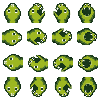
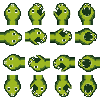
feat: body sprites added, they change with the direction correctly

diff --git a/js/snake.js b/js/snake.js
@@ -12,32 +12,32 @@ class Snake {
         this.body = [] // El cuerpo se gestiona como un array
         this.direction = "left" // Puede ser up, down, left o right, empieza siendo left
 
-        this.head = new Image()
-        this.head.src = "imgs/snake/head.png"
+        this.skin = new Image()
+        this.skin.src = "imgs/snake/head.png"
 
-        this.head.xFrames = 4
-        this.head.yFrames = 4
+        this.skin.columns = 4
+        this.skin.rows = 4
 
-        this.head.xFrameIndex = 0
-        this.head.yFrameIndex = 2
+        this.skin.columnIndex = 0
+        this.skin.rowIndex = 2
 
-        this.head.onload = () => {
-            this.head.isReady = true
+        this.skin.onload = () => {
+            this.skin.isReady = true
 
-            this.head.frameW = Math.floor(this.head.width / this.head.yFrames)
-            this.head.frameH = Math.floor(this.head.height / this.head.xFrames)
+            this.skin.frameW = Math.floor(this.skin.width / this.skin.rows)
+            this.skin.frameH = Math.floor(this.skin.height / this.skin.columns)
         }
 
     }
 
     draw () {
-        if (this.head.isReady) {
+        if (this.skin.isReady) {
             this.ctx.drawImage(
-                this.head,
-                this.head.frameW * this.head.xFrameIndex, 
-                this.head.frameH * this.head.yFrameIndex, 
-                this.head.frameW, 
-                this.head.frameH, 
+                this.skin,
+                this.skin.frameW * this.skin.columnIndex, 
+                this.skin.frameH * this.skin.rowIndex, 
+                this.skin.frameW, 
+                this.skin.frameH, 
                 this.x, 
                 this.y, 
                 this.w, 
@@ -86,8 +86,8 @@ class Snake {
                 this.vx = 0
                 this.vy = -CELL_SIZE
                 this.direction = "up"
-                this.head.xFrameIndex = 0
-                this.head.yFrameIndex = 0
+                this.skin.columnIndex = 0
+                this.skin.rowIndex = 0
             }
         })
 
@@ -96,8 +96,8 @@ class Snake {
                 this.vx = 0
                 this.vy = CELL_SIZE
                 this.direction = "down"
-                this.head.xFrameIndex = 0
-                this.head.yFrameIndex = 3
+                this.skin.columnIndex = 0
+                this.skin.rowIndex = 3
             }
         })
 
@@ -106,8 +106,8 @@ class Snake {
                 this.vx = -CELL_SIZE
                 this.vy = 0
                 this.direction = "left"
-                this.head.xFrameIndex = 0
-                this.head.yFrameIndex = 2
+                this.skin.columnIndex = 0
+                this.skin.rowIndex = 2
             }
         })
 
@@ -116,8 +116,8 @@ class Snake {
                 this.vx = CELL_SIZE
                 this.vy = 0
                 this.direction = "right"
-                this.head.xFrameIndex = 0
-                this.head.yFrameIndex = 1
+                this.skin.columnIndex = 0
+                this.skin.rowIndex = 1
             }
         })
         

diff --git a/js/game.js b/js/game.js
@@ -25,8 +25,8 @@ class Game {
         this.intervalId = setInterval(() => {
         this.clear()
         this.move()
-        this.draw()
         this.checkCollisions()
+        this.draw()
         this.endGame()
 
         this.appleIndex++
@@ -36,16 +36,18 @@ class Game {
     }
 
     draw () {
-        this.snake.draw()
-        this.snake.body.forEach((part) => {
-            part.draw()
-        })
-
         this.apple.draw()
 
         if (this.enemyCreated) {
             this.enemy.draw()
         }
+
+        this.snake.draw()
+
+        this.snake.body.forEach((part, index, arr) => {
+            part.isTail(index, arr)
+            part.draw()
+        })
     }
 
     move () { //(ACTUALIZAR CON EL NUEVO this.positions)
@@ -53,14 +55,18 @@ class Game {
         // El move guarda primero la posición original de la serpiente y su cuerpo y luego mueve al resto del cuerpo en base a los valores anteriores
         let snakeXPosition = this.snake.x
         let snakeYPosition = this.snake.y
+        let snakeDirection = this.snake.direction
+
         let bodyXPositions = this.snake.body.map((part) => part.x)
         let bodyYPositions = this.snake.body.map((part) => part.y)
+        let bodyDirections = this.snake.body.map((part) => part.direction)
+
         this.snake.move()
         this.snake.body.forEach((part, index) => {
             if (index === 0) {
-                part.move(snakeXPosition, snakeYPosition)
+                part.move(snakeXPosition, snakeYPosition, snakeDirection)
             } else {
-                part.move(bodyXPositions[index -1], bodyYPositions[index -1]) // Pongo -1 porque en el array "snake.body" el elemento 0 tiene que seguir la posición de la cabeza, que está en otra variable, entonces cuando llega a la posición 1, empezamos a compararnos con el array bodyXPositions que el valor al que tiene que igualar es el de la posición 0, por eso es el index - 1, para igualar al valor que necesito
+                part.move(bodyXPositions[index -1], bodyYPositions[index -1], bodyDirections[index -1] ) // Pongo -1 porque en el array "snake.body" el elemento 0 tiene que seguir la posición de la cabeza, que está en otra variable, entonces cuando llega a la posición 1, empezamos a compararnos con el array bodyXPositions que el valor al que tiene que igualar es el de la posición 0, por eso es el index - 1, para igualar al valor que necesito
             }
         })
         this.updatedPositions() // Cada vez que se mueva actualiza las posiciones en el array
@@ -115,7 +121,7 @@ class Game {
         // ENEMIGO
         if (this.enemyCreated === true) {
             if (this.snake.collisions(this.enemy.position)) {
-                this.snake.body = this.enemy.deleteBody(this.snake.body)
+                this.enemy.deleteBody(this.snake.body)
                 delete this.enemy
                 this.enemyCreated = false
                 this.enemyIndex = 1

diff --git a/js/body.js b/js/body.js
@@ -6,15 +6,96 @@ class Body {
         this.w = w
         this.h = h
 
+        this.direction = "left"
+
+        this.tail = false // Para pintar la cola, en el último será true
+
+        this.skin = new Image ()
+        this.skin.src = "imgs/snake/body.png"
+
+        this.skin.columns = 4
+        this.skin.rows = 4
+
+        this.skin.columnIndex = 0
+        this.skin.rowIndex = 2
+
+        this.skin.onload = () => {
+            this.skin.isReady = true
+
+            this.skin.frameW = Math.floor(this.skin.width / this.skin.columns)
+            this.skin.frameH = Math.floor(this.skin.height / this.skin.rows)
+        }
+
     }
 
     draw () {
-        this.ctx.fillStyle = "black" 
-        this.ctx.fillRect(this.x, this.y, this.w, this.h)
+        if (this.skin.isReady) {
+            this.ctx.drawImage(
+                this.skin,
+                this.skin.frameW * this.skin.columnIndex, 
+                this.skin.frameH * this.skin.rowIndex, 
+                this.skin.frameW, 
+                this.skin.frameH, 
+                this.x, 
+                this.y, 
+                this.w, 
+                this.h
+            )
+        }
     }
 
-    move (x, y) { // Este move dependerá de la anterior y de la posición
+    move (x, y, direction) { // Este move dependerá de la anterior y de la posición
         this.x = x
         this.y = y
+        this.direction = direction
+
+        if (this.tail === false) {
+            switch (this.direction) {
+            case "up":
+                this.skin.columnIndex = 0
+                this.skin.rowIndex = 0
+                break;
+            case "down":
+                this.skin.columnIndex = 0
+                this.skin.rowIndex = 3
+                break;
+            case "left":
+                this.skin.columnIndex = 0
+                this.skin.rowIndex = 2
+            case "right":
+                this.skin.columnIndex = 0
+                this.skin.rowIndex = 1
+            }
+        }
+
+       if (this.tail === true) {
+            switch (this.direction) {
+            case "up":
+                this.skin.columnIndex = 3
+                this.skin.rowIndex = 0
+                break;
+            case "down":
+                this.skin.columnIndex = 3
+                this.skin.rowIndex = 3
+                break;
+            case "left":
+                this.skin.columnIndex = 3
+                this.skin.rowIndex = 2
+                break;
+            case "right":
+                this.skin.columnIndex = 3
+                this.skin.rowIndex = 1
+                break;
+            }
+        }
+        
+    }
+
+    isTail (index, bodyArr) {
+        if (index === bodyArr.length - 1) {
+            this.tail = true
+        } else {
+            this.tail = false
+        }
     }
 }

diff --git a/js/enemies.js b/js/enemies.js
@@ -33,14 +33,6 @@ class Enemy {
 
     //Función para que cuando te choques con la manzana esta te elimine una parte del cuerpo según el damage del enemigo
     deleteBody (body) { // Recibe el array del cuerpo de la serpiente, un array de objetos
-        const filteredBody = body.filter((part, index) => {
-            if (index < (body.length - 1) - this.damage) {
-                return true
-            } else {
-                return false
-            }
-        })
-       
-        return filteredBody
+        body.splice(body.length - this.damage, this.damage)
     }
 }
